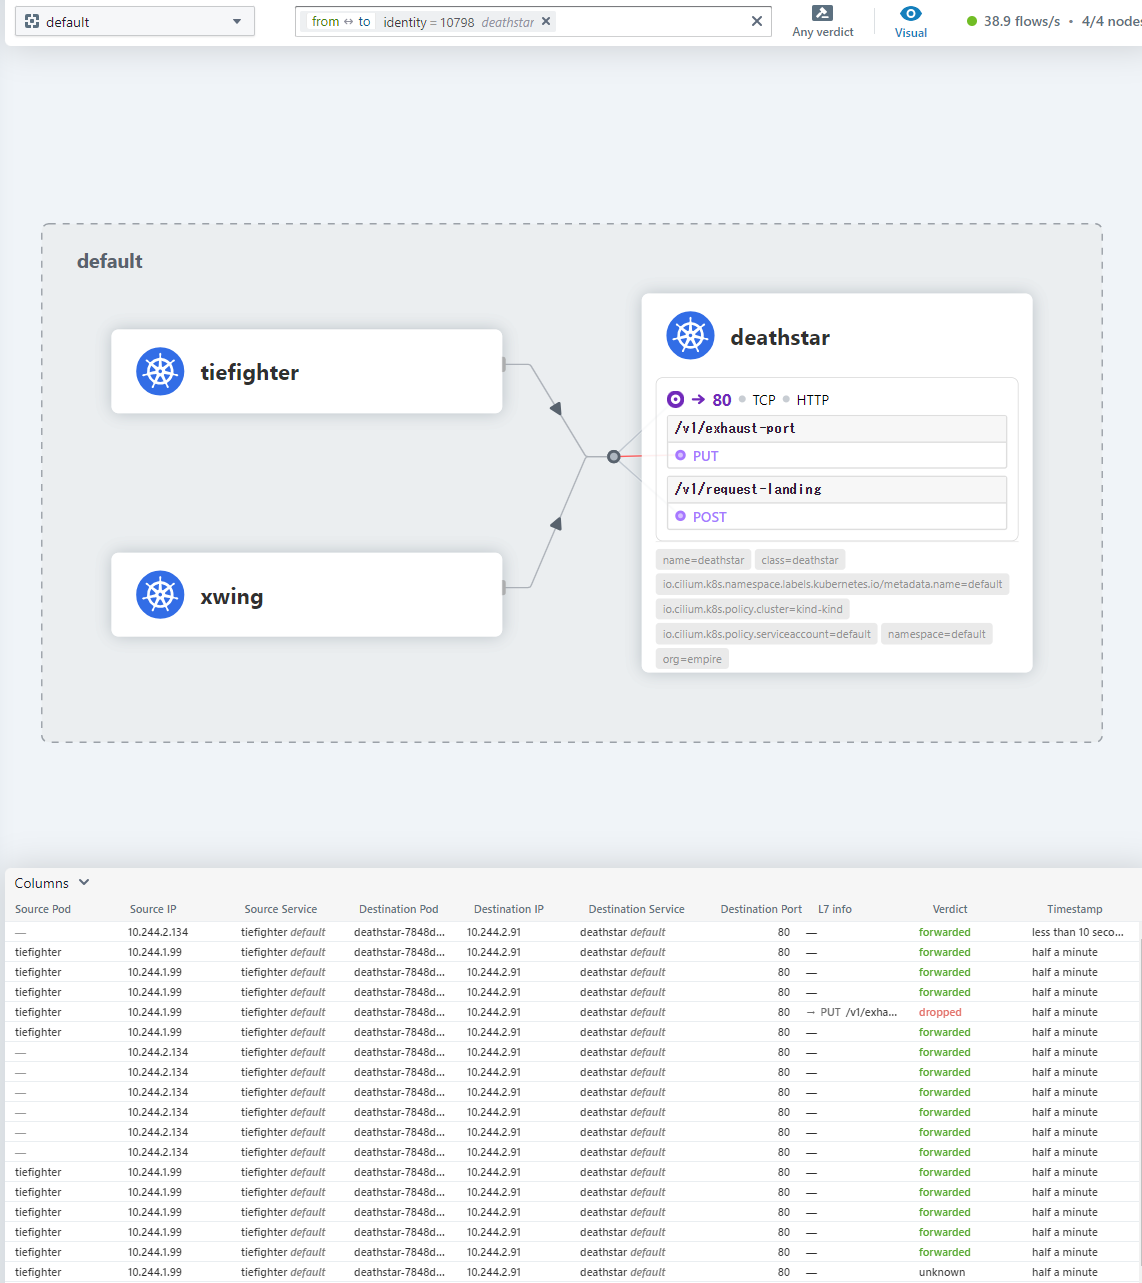
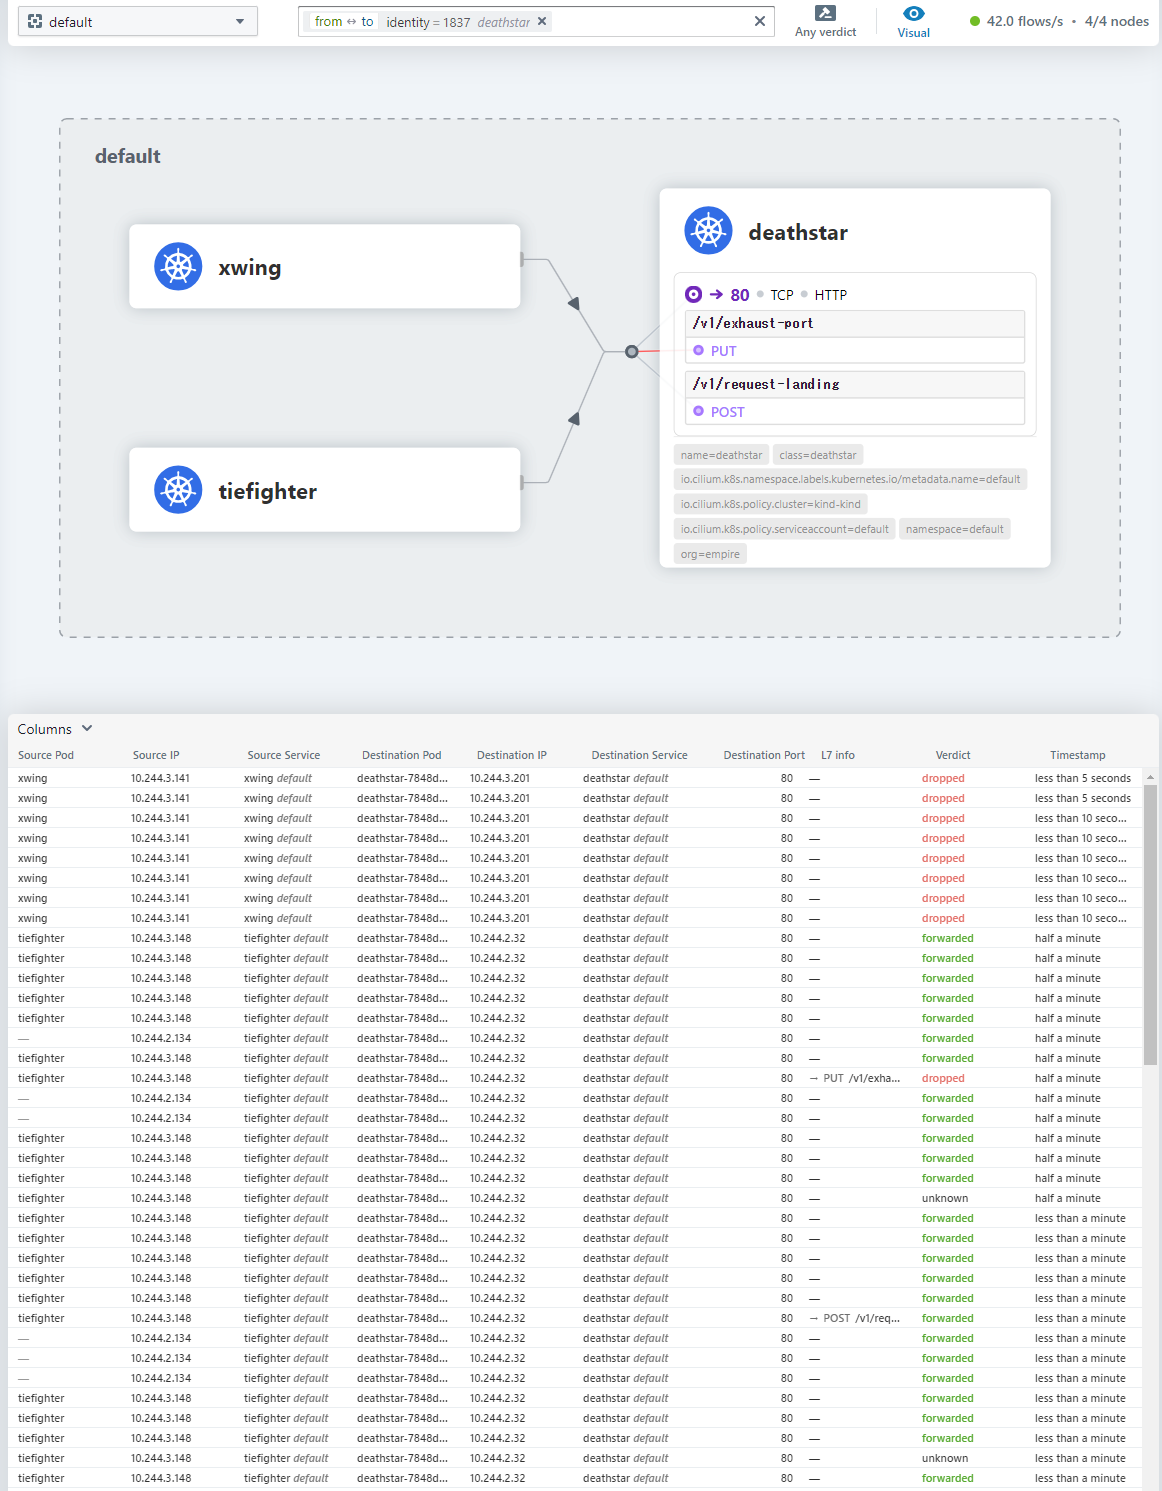
add get started 2

diff --git a/README.md b/README.md
@@ -263,6 +263,8 @@ ENDPOINT   POLICY (ingress)   POLICY (egress)   IDENTITY   LABELS (source:key[=v
 
 xwing と tiefighter Pod から deathstar Pod にアクセスを試みます。ネットワークポリシー適用前なので、「Ship Llanded」と表示されて、xwing と tiefighter Pod は、deathstar Pod にアクセスできます。
 
+![Cilium & Hubble Demo](images/06.png)
+
 ```sh
 kubectl exec xwing -- curl -s -XPOST deathstar.default.svc.cluster.local/v1/request-landing
 ```
@@ -281,7 +283,11 @@ hubble でも forwarded の表示を確認できます。
 
 ![hubble 1](./images/02.png)
 
-L3/L4 ポリシーを適用します。「org=empire」というラベルを持つ tiefighter Pod は、deathstar Pod にアクセスできますが、ラベルを持たない xwing Pod はアクセスできなくなります。
+### L4 Policy with Cilium and Kubernetes
+
+![L4 Policy with Cilium and Kubernetes](images/07.png)
+
+L4 ポリシーを適用します。「org=empire」というラベルを持つ tiefighter Pod は、deathstar Pod にアクセスできますが、ラベルを持たない xwing Pod はアクセスできなくなります。
 
 ポリシーの内容は、以下です。
 
@@ -378,6 +384,10 @@ ENDPOINT   POLICY (ingress)   POLICY (egress)   IDENTITY   LABELS (source:key[=v
 ・
 ```
 
+### L7 Policy with Cilium and Kubernetes
+
+![L7 Policy with Cilium and Kubernetes](images/08.png)
+
 HTTP 対応 L7 ポリシーの適用とテストを行います。
 
 以下のポリシーは、tiefighter Pod からの HTTP POST における /v1/request-landing という URL への API 呼び出しのみを許可し、それ以外は拒否するポリシーです。
@@ -417,7 +427,7 @@ kubectl apply -f https://raw.githubusercontent.com/cilium/cilium/1.14.2/examples
 ciliumnetworkpolicy.cilium.io/rule1 configured
 ```
 
-HTTP POST 通信は通ります。
+HTTP POST 通信は通りますが、HTTP PUT 通信は拒否されます。
 
 ```sh
 kubectl exec tiefighter -- curl -s -XPOST deathstar.default.svc.cluster.local/v1/request-landing
@@ -438,6 +448,10 @@ hubble でも両方の状況を確認できます。
 ![hubble 3](./images/04.png)
 
 ラベル org=empire のない Pod からのトラフィックは引き続き Dropped となります。
+
+```sh
+kubectl exec xwing -- curl -s -XPOST deathstar.default.svc.cluster.local/v1/request-landing
+```
 
 ![hubble 4](./images/05.png)
 
